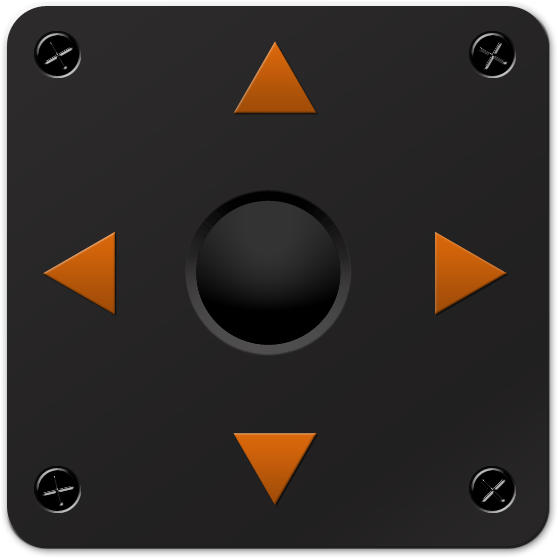
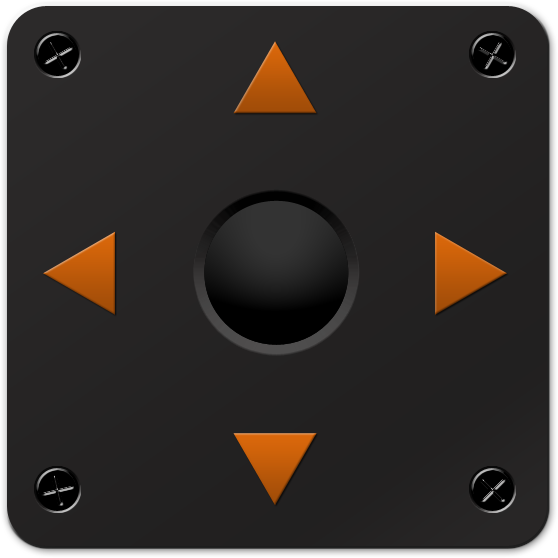
Fix image errors. now stick is looking good.

diff --git a/view/index.html b/view/index.html
@@ -15,21 +15,21 @@
   #ball{
     width: 214px;
     height: 214px;
-    margin: -107px 0 0 -107px;
+    margin: -107px;
     background: transparent;
     left: 50%; top: 50%;
     position: absolute;
   }
 
   #stick{
-    margin-left: -22px;
     width: 45px;   
     border-top: 0;
     -webkit-transform-origin: 50% 100%;
     height: 0;
     position:absolute;
     bottom: 50%;
-    left: 50%;
+    left: 256.5px ; /* (558-45)/2 */
+    
   }
   #stick .colored{
     width: 100%;
@@ -101,10 +101,10 @@
 
     // resizes the ball
     $ball.resize = function(){
-      var phi = 90 - Math.asin($ball.dist/(RADIUS*2)).to_deg(),
+      /*var phi = 90 - Math.asin($ball.dist/(RADIUS*2)).to_deg(),
           side = '' + BALLSIZE/(1+(90-phi)/160) + 'px';
       $ball.css('width', side)
-           .css('height', side);
+           .css('height', side);*/
     }
 
     // adjust all things about the ball when the ball is animating
